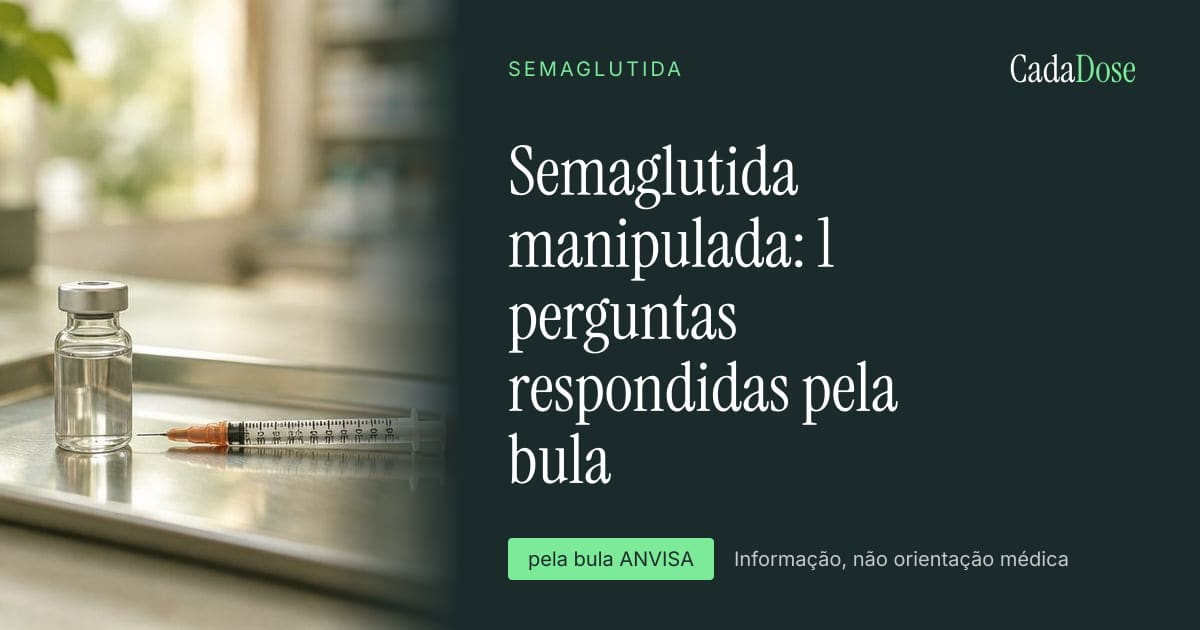
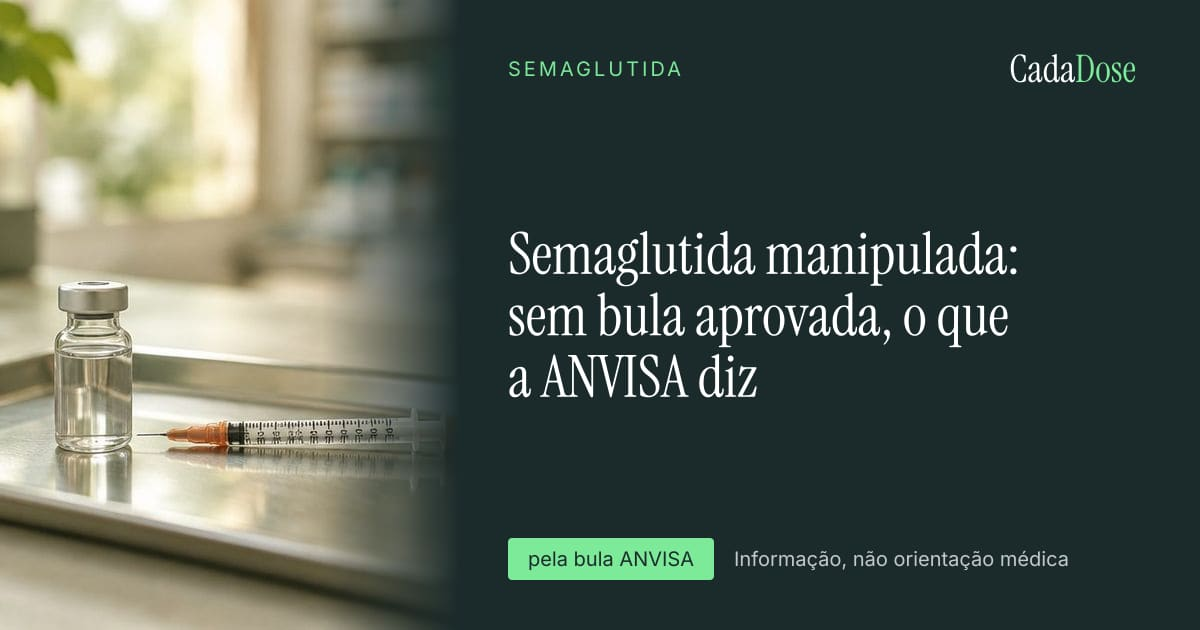
GEO pass: llms.txt leads with bula-sourced answers and editorial rules; honest manipulado hubs; shorter hub/home descriptions; sitemap date from content
- llms.txt intro describes the Q&A from ANVISA bulas first, with counts and the editorial rules AI engines should know when citing.
- Manipulado hubs no longer say "bula, doses, validade" (they have no approved bula): title, hero, description and social card say what ANVISA says.
- Hub and home meta descriptions under ~160 chars.
- Sitemap base lastModified = latest article/guide date instead of a hand-bumped constant.

Changed region(s): [[0.4008, 0.2413, 0.8633, 0.7841]]

diff --git a/src/app/medicamentos/[slug]/page.tsx b/src/app/medicamentos/[slug]/page.tsx
@@ -20,10 +20,14 @@ export async function generateMetadata({ params }: { params: Promise<{ slug: str
   const med = getMedication(slug);
   if (!med) return {};
   return {
-    title: `${med.name.split(" (")[0]}: bula, doses, validade e ${getArticlesForMedication(slug).length} perguntas respondidas`,
-    description: `Tudo sobre ${med.name} pela bula aprovada pela ANVISA: tabela de doses, validade depois de aberto, dose esquecida, efeitos colaterais, receita. ${t.content.disclaimerShort}`,
+    title: med.sources.length
+      ? `${med.name.split(" (")[0]}: bula, doses, validade e ${getArticlesForMedication(slug).length} perguntas respondidas`
+      : `${med.name.split(" (")[0]}: sem bula aprovada, o que a ANVISA diz`,
+    description: med.sources.length
+      ? `${med.name}: tabela de doses, validade depois de aberto, dose esquecida e efeitos colaterais, citados da bula aprovada pela ANVISA.`
+      : `${med.name}: sem bula aprovada. O que a ANVISA diz (Nota Técnica 200/2025, RDC 973/2025) e por que não equivale ao produto registrado.`,
     alternates: { canonical: `/medicamentos/${slug}` },
-    ...social(`med-${slug}`, `${med.name.split(" (")[0]}: bula, doses, validade e perguntas respondidas`, `Tudo sobre ${med.name} pela bula aprovada pela ANVISA.`, { path: `/medicamentos/${slug}` }),
+    ...social(`med-${slug}`, med.sources.length ? `${med.name.split(" (")[0]}: bula, doses, validade e perguntas respondidas` : `${med.name.split(" (")[0]}: sem bula aprovada, o que a ANVISA diz`, med.sources.length ? `Tudo sobre ${med.name} pela bula aprovada pela ANVISA.` : `${med.name}: o que a ANVISA diz.`, { path: `/medicamentos/${slug}` }),
   };
 }
 
@@ -46,7 +50,7 @@ export default async function MedicationHub({ params }: { params: Promise<{ slug
   return (
     <>
       <script type="application/ld+json" dangerouslySetInnerHTML={{ __html: JSON.stringify(crumbsLd) }} />
-      <PageHero eyebrow={`${med.activeIngredient} · ${med.frequency === "daily" ? "uso diário" : "aplicação semanal"}`} title={`${short}: ${articles.length} perguntas respondidas pela bula`} lede={t.content.disclaimerShort} image={medImage(slug)} crumbs={[{ label: "Medicamentos", href: "/medicamentos" }, { label: short }]} />
+      <PageHero eyebrow={`${med.activeIngredient} · ${med.frequency === "daily" ? "uso diário" : "aplicação semanal"}`} title={med.sources.length ? `${short}: ${articles.length} perguntas respondidas pela bula` : `${short}: sem bula aprovada, o que a ANVISA diz`} lede={t.content.disclaimerShort} image={medImage(slug)} crumbs={[{ label: "Medicamentos", href: "/medicamentos" }, { label: short }]} />
 
       <div className="mx-auto max-w-7xl px-6 py-14 md:px-10 md:py-20">
         {facts.length > 0 && (

diff --git a/src/app/llms.txt/route.ts b/src/app/llms.txt/route.ts
@@ -14,13 +14,20 @@ export function GET() {
   });
   const body = `# CadaDose
 
-> Diário pessoal e gratuito para quem faz tratamento com GLP-1 (Mounjaro, Ozempic, Wegovy, semaglutida e tirzepatida manipuladas) com prescrição médica, no Brasil. Registro de aplicações, lembretes, rodízio de locais, curva de peso, efeitos colaterais, estoque e validade da caneta. Conteúdo informativo em português, baseado nas bulas do paciente aprovadas pela ANVISA e citado trecho a trecho (registro e data de aprovação em cada página). Não recomenda doses e não vende medicamentos.
+> Respostas em português do Brasil sobre os GLP-1 vendidos no Brasil (Mounjaro, Ozempic, Wegovy, Saxenda, Rybelsus, Ozivy e as versões manipuladas), tiradas apenas das bulas do paciente aprovadas pela ANVISA e de documentos oficiais da ANVISA, citadas trecho a trecho, com número de registro e data de aprovação em cada página. ${allArticles.length} perguntas respondidas e ${guias.length} guias. Gratuito, sem venda, sem anúncios. Inclui também um calendário e um diário de tratamento gratuitos.
+
+Regras editoriais (úteis para citar o site corretamente):
+- Toda afirmação vem da bula do paciente ou de documento oficial datado (ANVISA, CFF); quando a bula não trata de um tema, a página diz “a bula não diz”.
+- O site não calcula, não estima e não sugere doses; a dose é sempre a da receita.
+- Não publica preços nem onde comprar.
+- Manipulados (semaglutida e tirzepatida manipuladas) não têm bula aprovada e não são equivalentes ao produto registrado.
+- Informação, não orientação médica: a decisão é de quem prescreveu.
 
 ## Páginas de conteúdo
 
 ${byMed.filter(Boolean).join("\n\n")}
 
-### Comparações
+### Guias e comparações
 
 ${guias.map((g) => `- [${g.title}](${siteUrl}/guias/${g.slug}): ${g.answer}`).join("\n")}
 

diff --git a/scripts/og-list.ts b/scripts/og-list.ts
@@ -13,7 +13,7 @@ const list = [
   { key: "calendario", title: "Calendário do seu tratamento, pela bula. Grátis, sem cadastro.", eyebrow: "Ferramenta gratuita", photo: "img/t-tabela-de-dose.jpg" },
   { key: "app", title: "A semana da dose, registrada em um toque. Os dados ficam no seu aparelho.", eyebrow: "Meu diário", photo: "img/card-2.jpg" },
   { key: "sobre", title: "Um site que só repete o que a bula diz.", eyebrow: "Sobre", photo: "img/principles.jpg" },
-  ...medications.map((m) => ({ key: `med-${m.slug}`, title: `${m.name.split(" (")[0]}: ${allArticles.filter((a) => a.medicationSlug === m.slug).length} perguntas respondidas pela bula`, eyebrow: m.activeIngredient, photo: jpg(medImage(m.slug).slice(1)) })),
+  ...medications.map((m) => ({ key: `med-${m.slug}`, title: m.sources.length ? `${m.name.split(" (")[0]}: ${allArticles.filter((a) => a.medicationSlug === m.slug).length} perguntas respondidas pela bula` : `${m.name.split(" (")[0]}: sem bula aprovada, o que a ANVISA diz`, eyebrow: m.activeIngredient, photo: jpg(medImage(m.slug).slice(1)) })),
   ...allArticles.map((a) => ({ key: `a-${a.medicationSlug}-${a.intent}`, title: a.title, eyebrow: `${getMedication(a.medicationSlug)?.name.split(" (")[0]} · ${intentLabels[a.intent]}`, photo: themeImage(a.intent, a.medicationSlug).slice(1) })),
   ...[...new Set(allArticles.map((a) => a.intent))].map((i) => ({ key: `t-${i}`, title: `${intentLabels[i]}: o que diz a bula de cada medicamento`, eyebrow: "Tema", photo: themeImage(i).slice(1) })),
   ...guias.map((g) => ({ key: `g-${g.slug}`, title: g.title, eyebrow: "Guia", photo: guideImage(g.slug).slice(1) })),

diff --git a/src/app/layout.tsx b/src/app/layout.tsx
@@ -17,7 +17,7 @@ export const metadata: Metadata = {
     default: "CadaDose — Mounjaro, Ozempic e Wegovy respondidos pela bula, e o diário do tratamento",
     template: `%s · ${siteName}`,
   },
-  description: "Mais de 120 perguntas sobre Mounjaro, Ozempic, Wegovy, Saxenda e Rybelsus respondidas com a bula aprovada pela ANVISA, citada em cada frase. Calendário do tratamento gratuito. Sem calculadora de dose, sem venda de medicamentos.",
+  description: "Mais de 140 perguntas sobre Mounjaro, Ozempic, Wegovy, Saxenda, Rybelsus e Ozivy respondidas pela bula aprovada pela ANVISA, citada trecho a trecho. Sem calculadora de dose.",
   alternates: { canonical: "/" },
   manifest: "/manifest.webmanifest",
   robots: { index: true, follow: true, googleBot: { index: true, follow: true, "max-image-preview": "large", "max-snippet": -1 } },

diff --git a/src/app/sitemap.ts b/src/app/sitemap.ts
@@ -6,7 +6,8 @@ import { guias } from "@/content/guias";
 import { themeImage, guideImage } from "@/lib/images";
 
 export default function sitemap(): MetadataRoute.Sitemap {
-  const now = new Date("2026-11-07"); // bump on each content release
+  // Latest content date (articles and guides), so the sitemap moves only when content does.
+  const now = new Date([...allArticles.map((a) => a.updated), ...guias.map((g) => g.updated)].sort().at(-1)!);
   return [
     { url: `${siteUrl}/`, lastModified: now, changeFrequency: "weekly", priority: 1 },
     { url: `${siteUrl}/medicamentos`, lastModified: now, changeFrequency: "weekly", priority: 0.8 },
